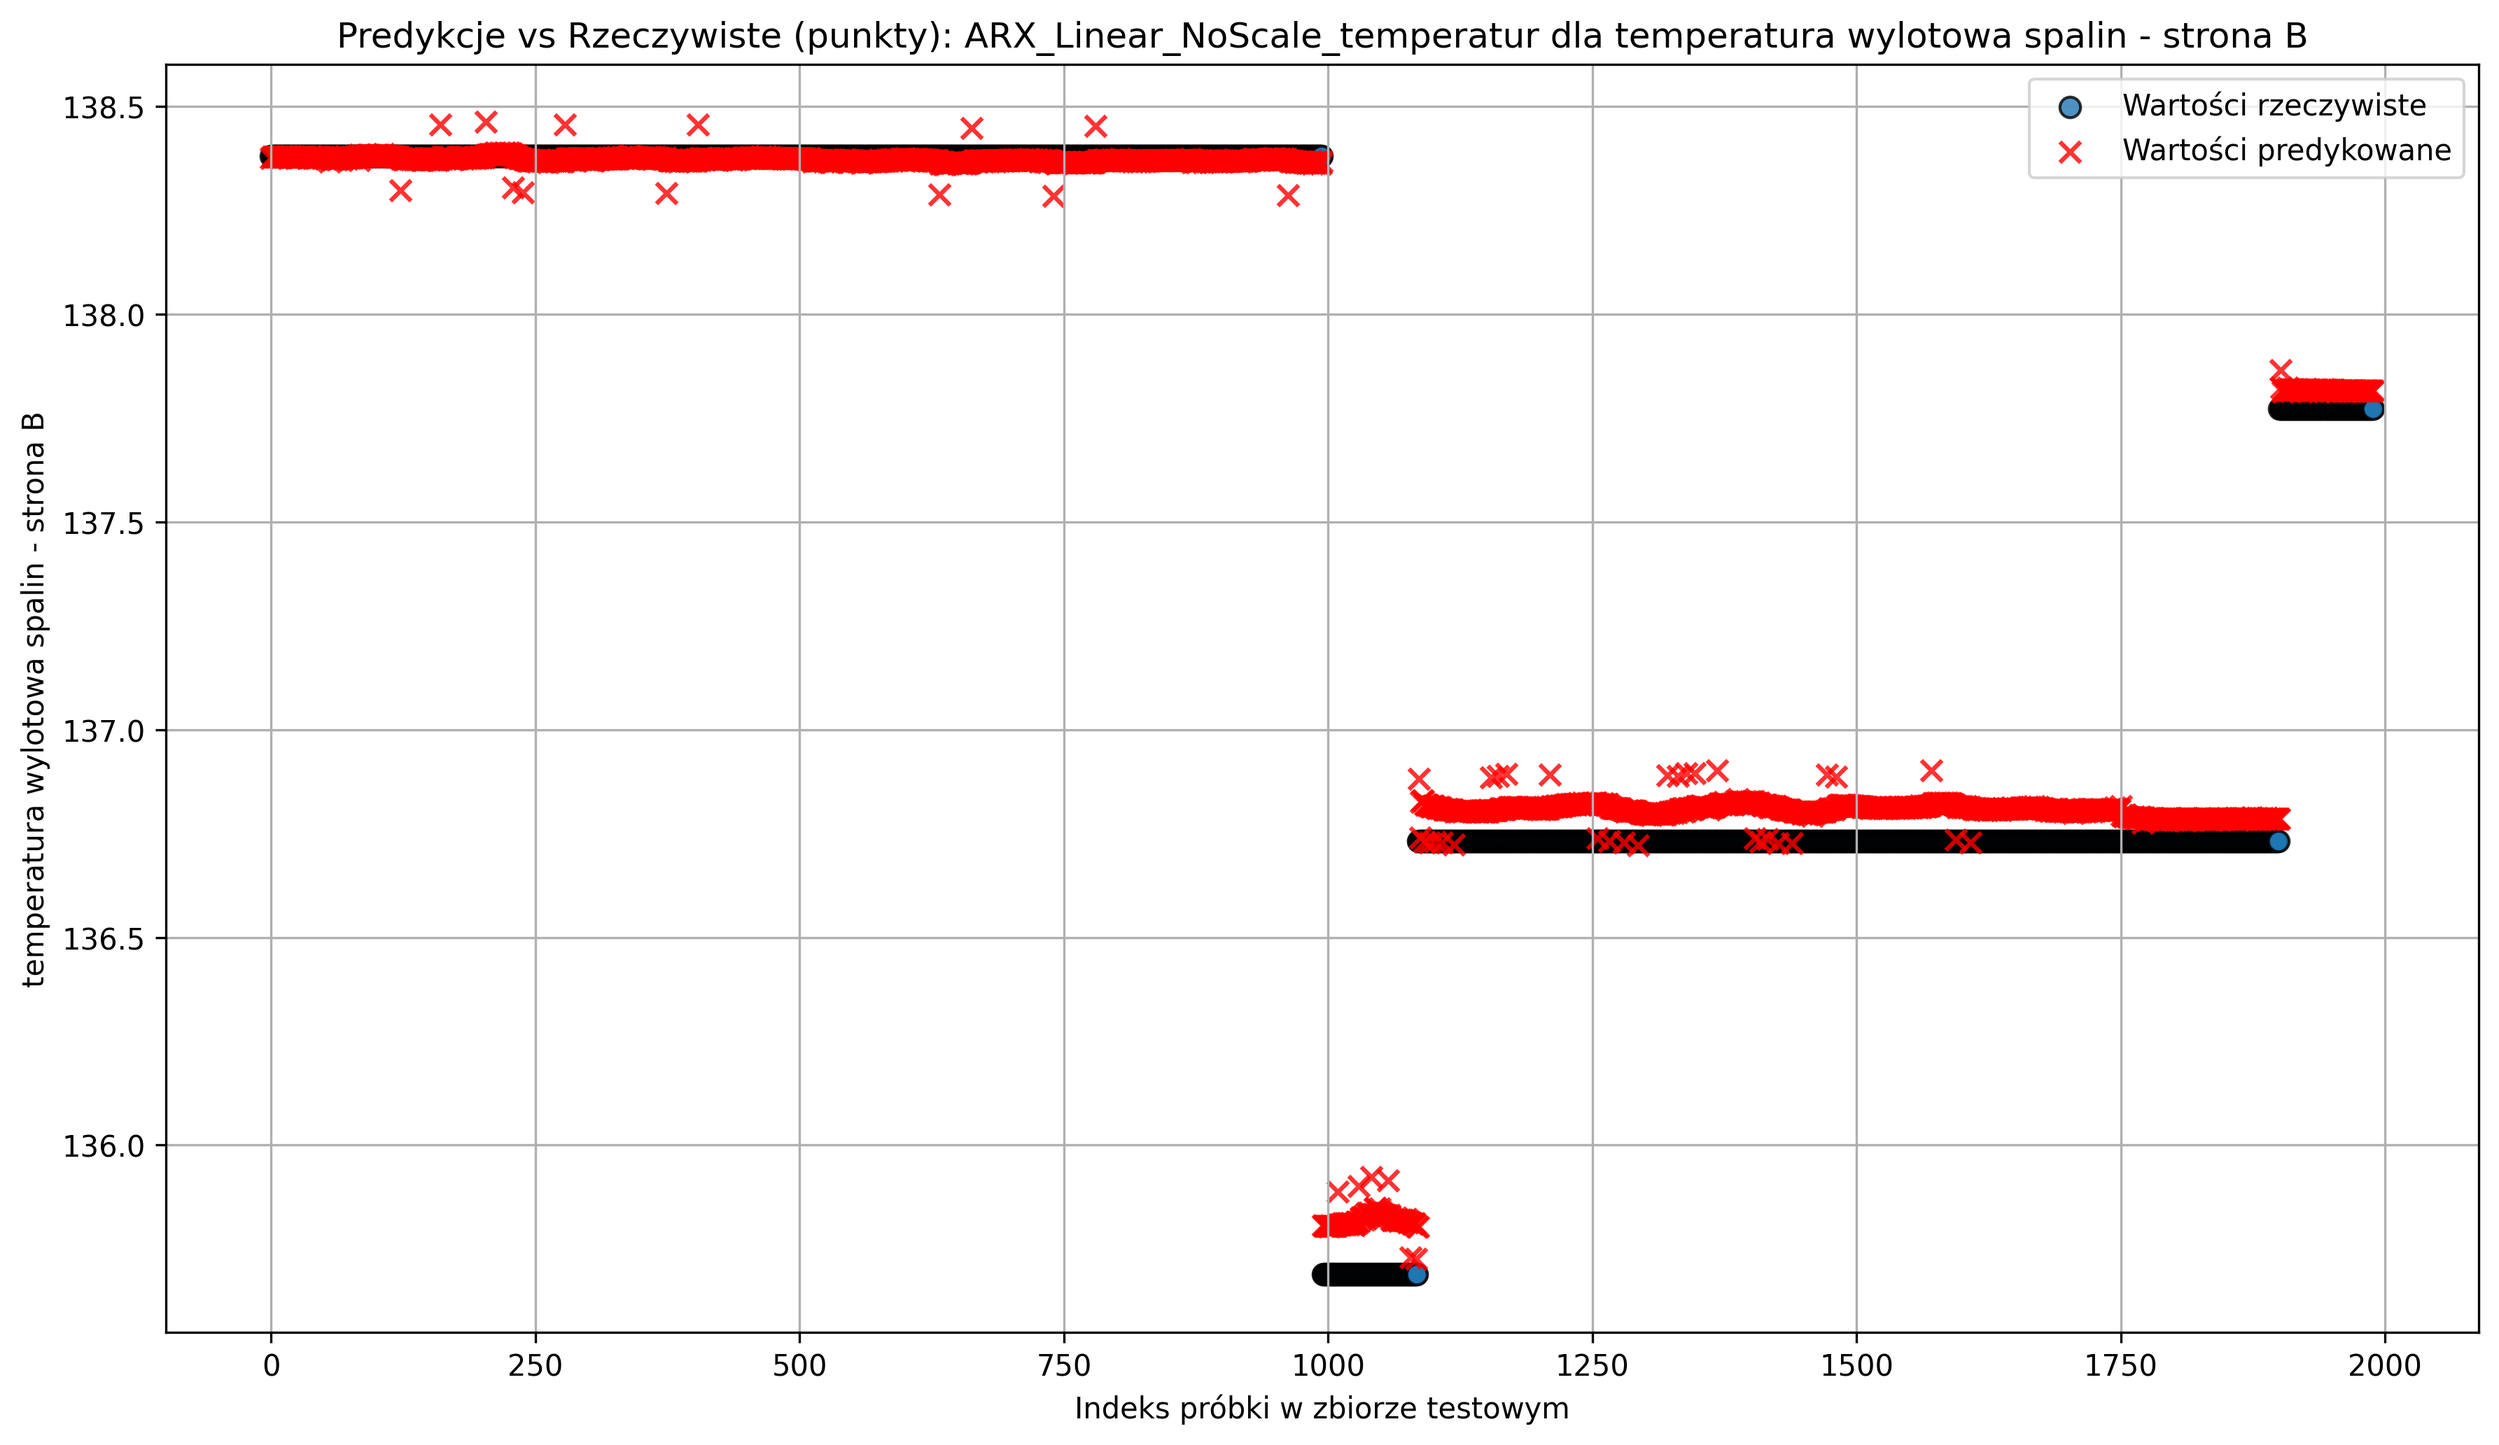
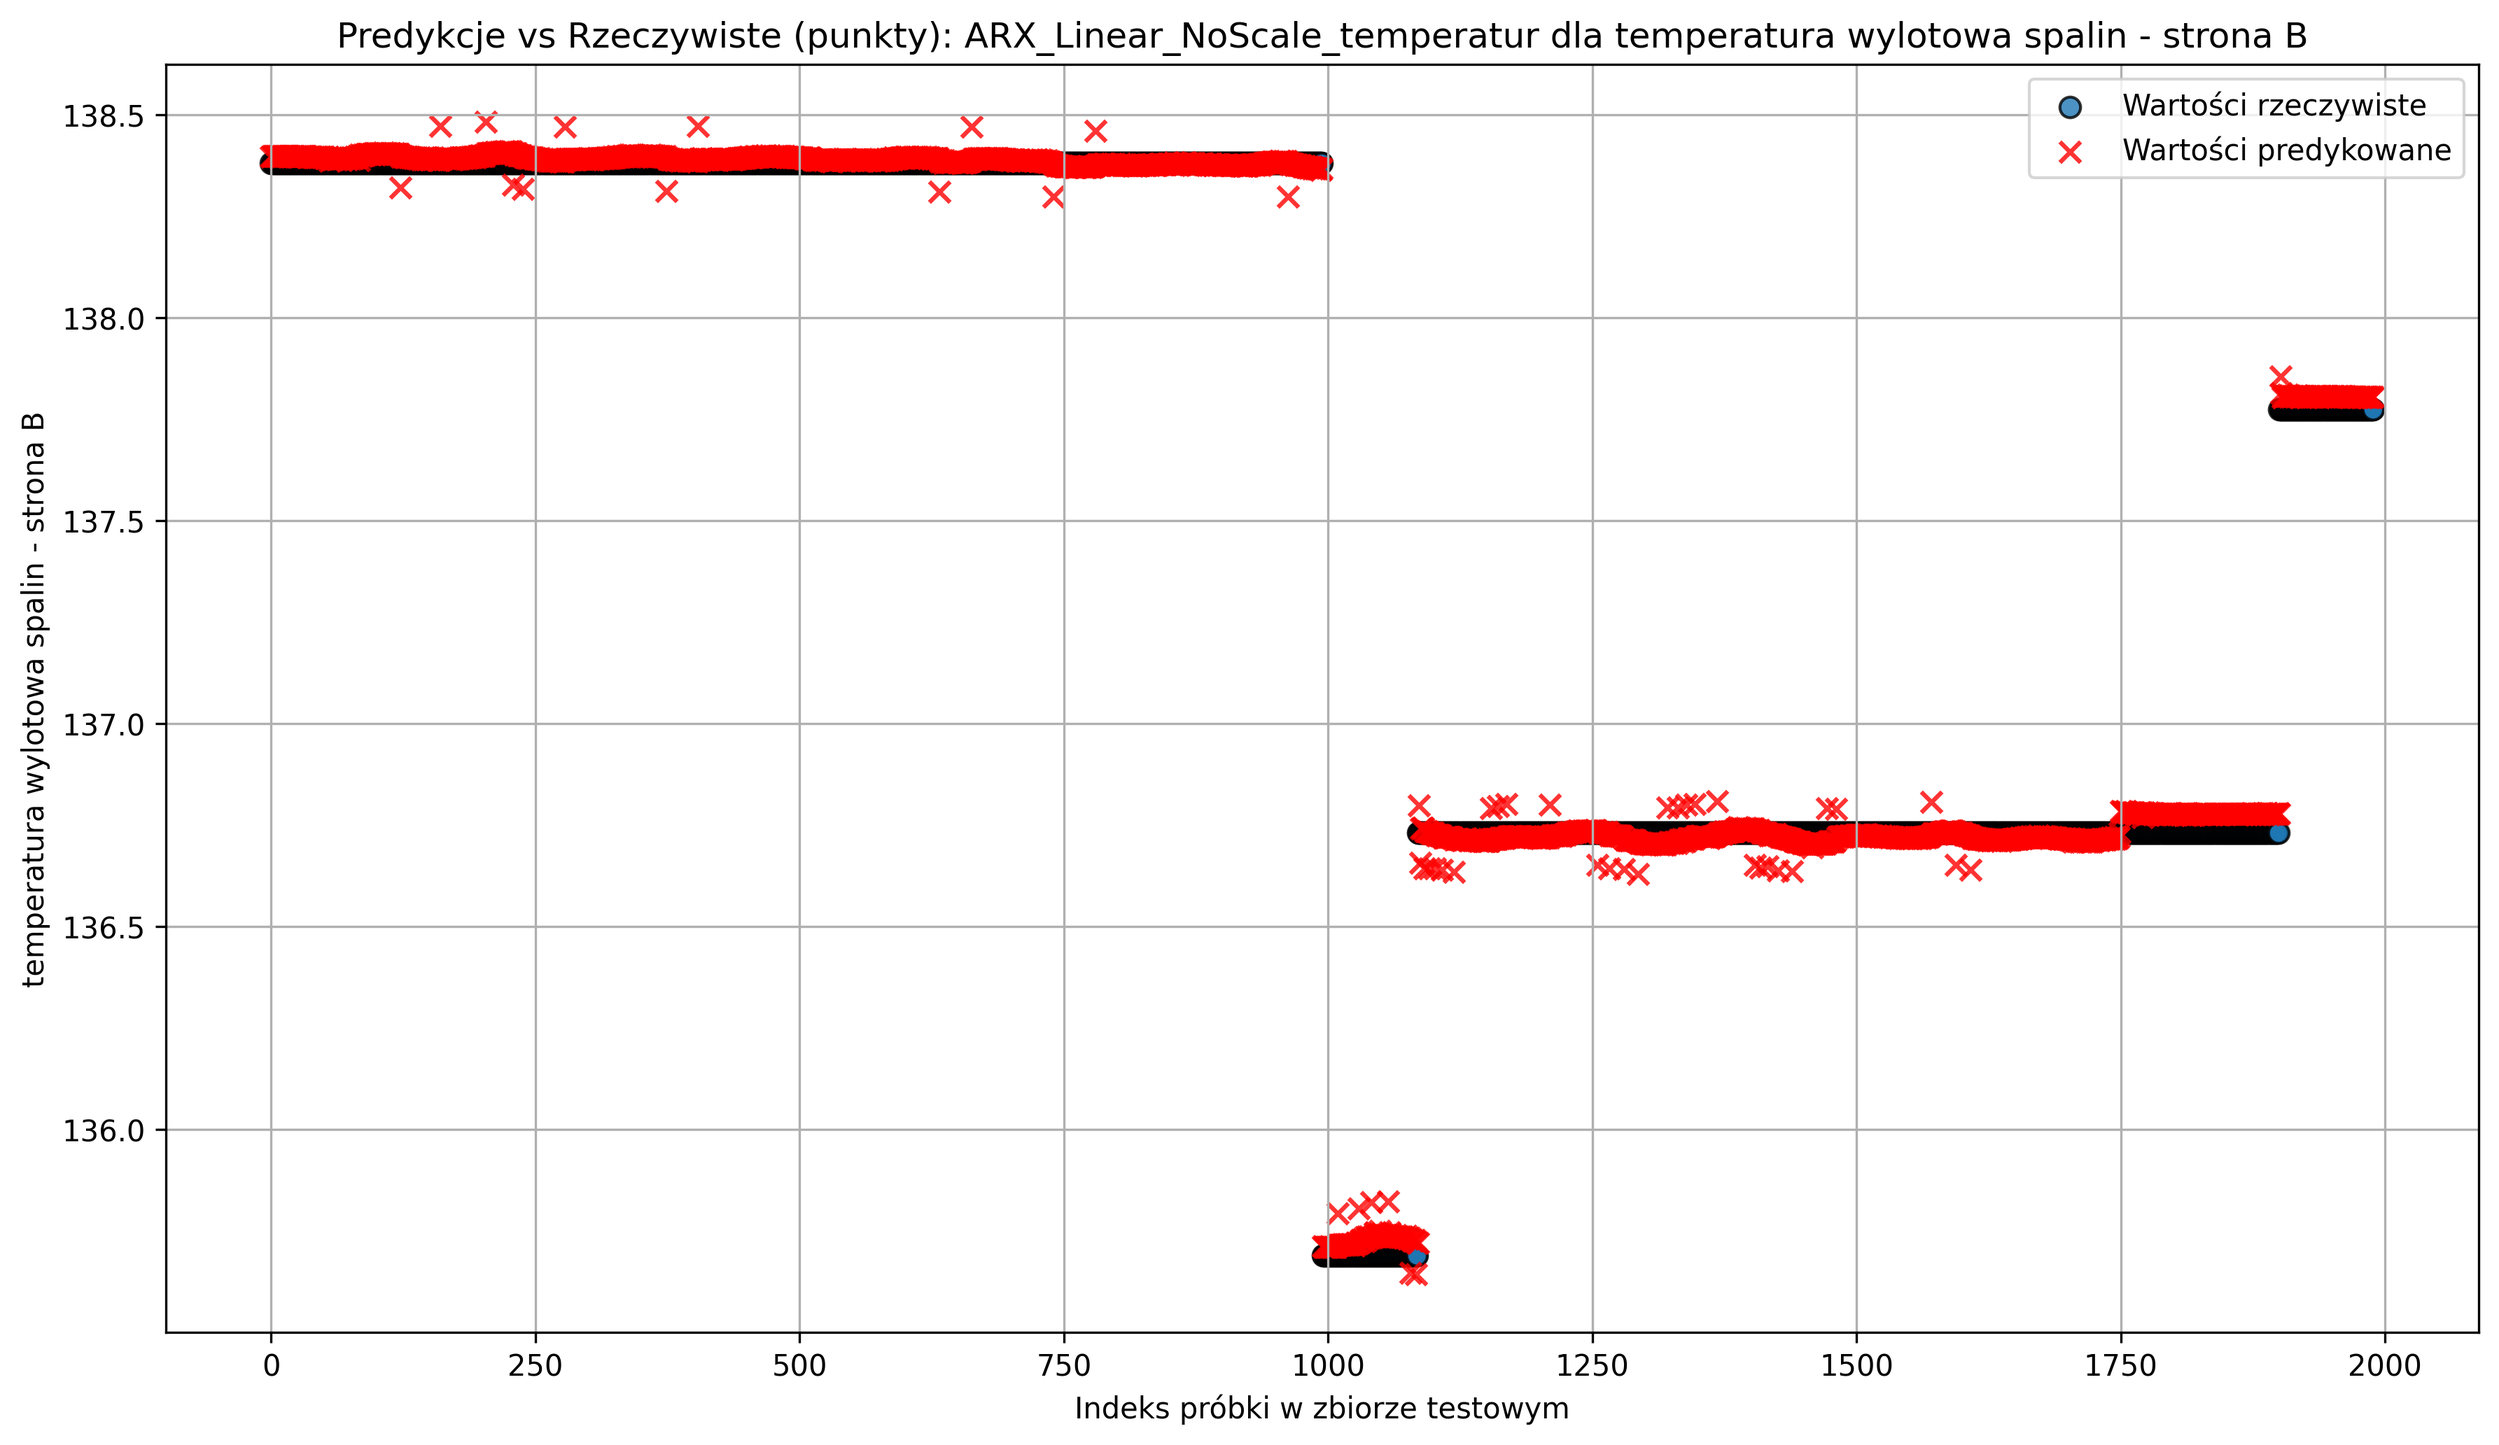
ez inputs

diff --git a/src/main.py b/src/main.py
@@ -199,8 +199,8 @@ def main():
             "klapy wentlatora podmuchu - strona A", "klapy wentlatora podmuchu - strona B",
             "ciśnienie wody wtryskowej do pary świeżej",
             "temperatura wlotowa powietrza - strona A",
-            # "temperatura za wtryskiem pary wtórnej - strona L ", 
-            # "temperatura za wtryskiem pary wtórnej - strona P"
+            "temperatura za wtryskiem pary wtórnej - strona L ", 
+            "temperatura za wtryskiem pary wtórnej - strona P"
         ]
         target_A = "temperatura wylotowa spalin - strona A"
 
@@ -212,7 +212,7 @@ def main():
             "ciśnienie wody wtryskowej do pary świeżej",
             "temperatura wlotowa powietrza - strona A",
             # "temperatura za wtryskiem pary wtórnej - strona L ", 
-            # "temperatura za wtryskiem pary wtórnej - strona P"
+            "temperatura za wtryskiem pary wtórnej - strona P"
         ]
         target_B = "temperatura wylotowa spalin - strona B"
         
